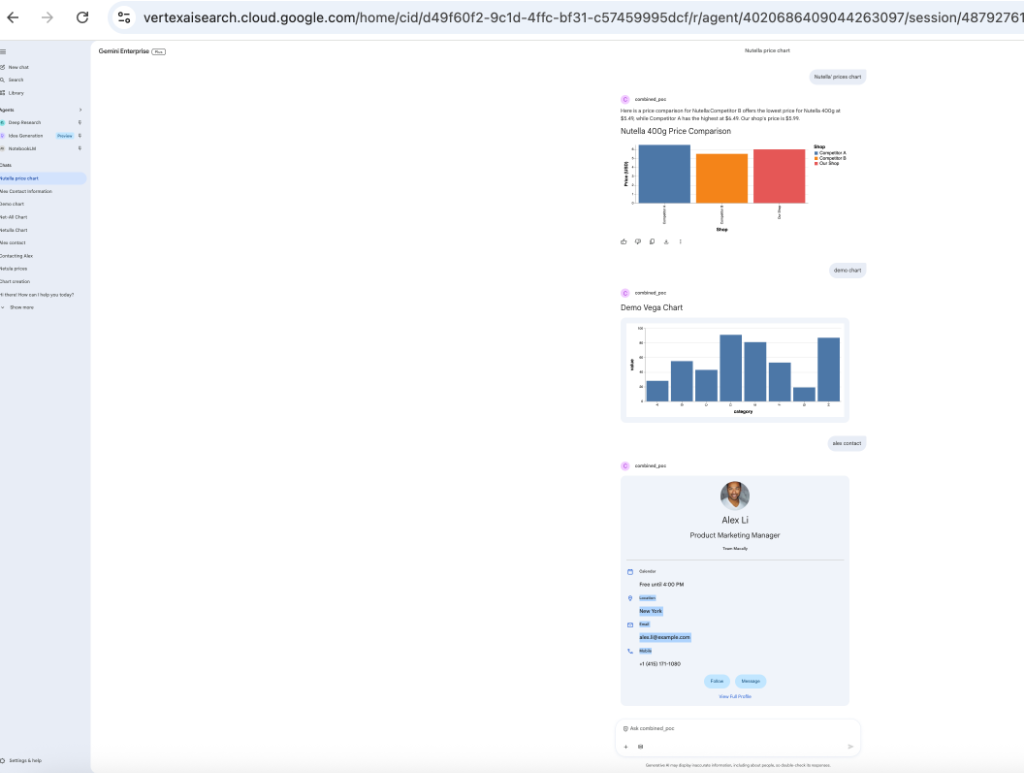
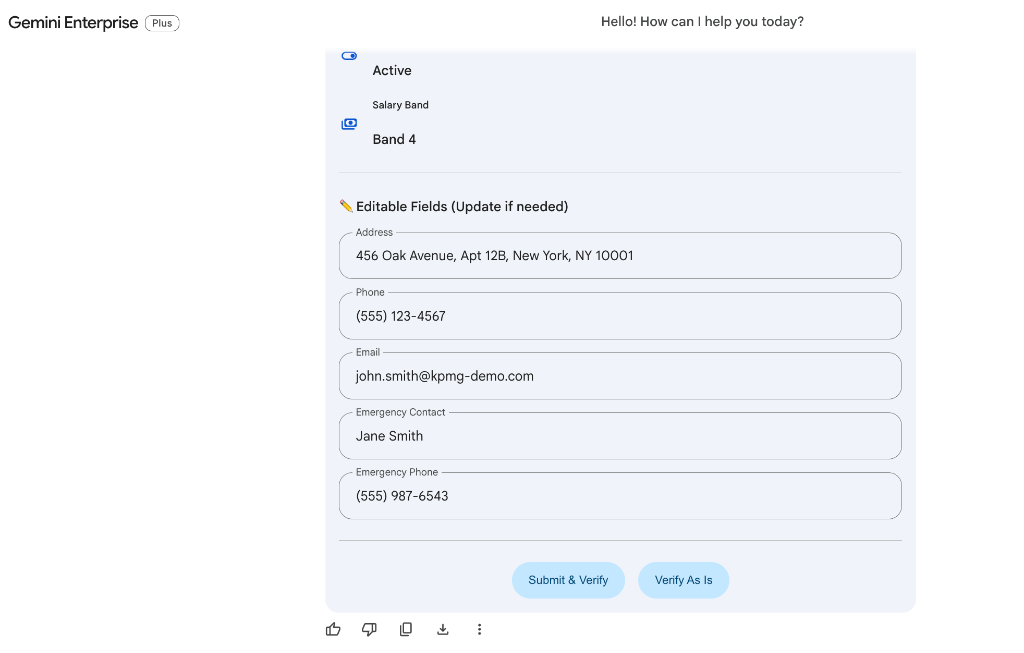
Update successful test screenshot in README for employee verification agent

diff --git a/a2ui/README.md b/a2ui/README.md
@@ -45,6 +45,8 @@ employee_verification/
 5. **Agent calls** `update_employee_field` for changed fields, then `verify_employee`
 6. **Success card** is displayed
 
+![A2UI Employee Verification Card](successful_test.png)
+
 ## Adding New Agents
 
 1. Create a new directory: `agents/my_new_agent/`
